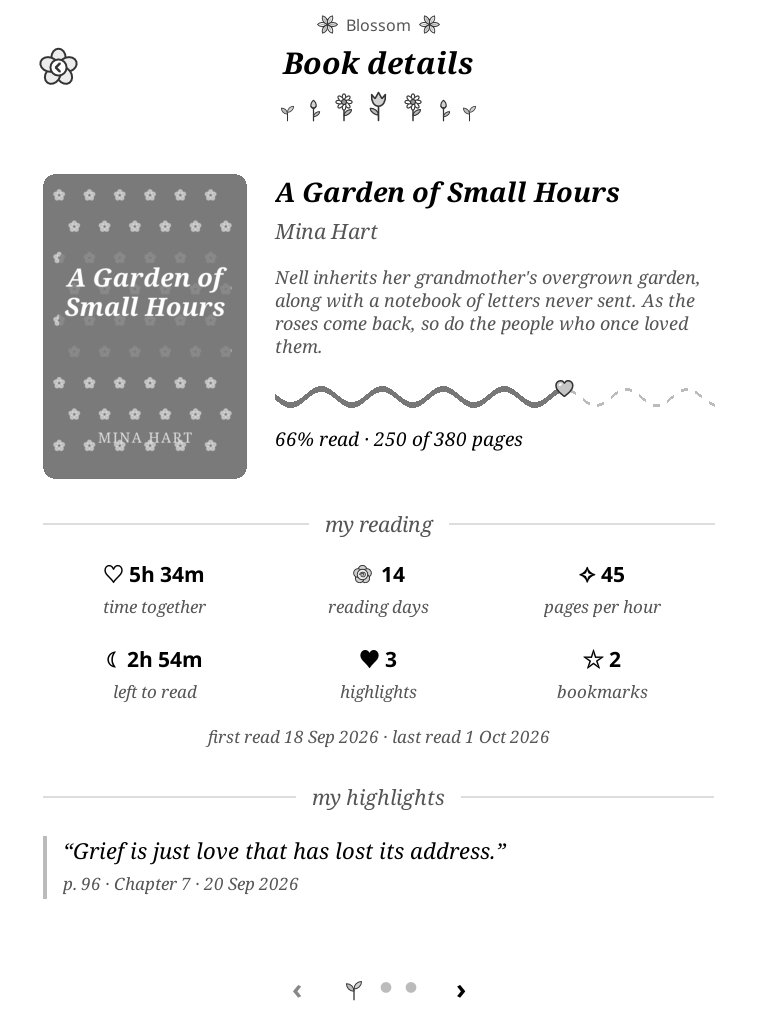
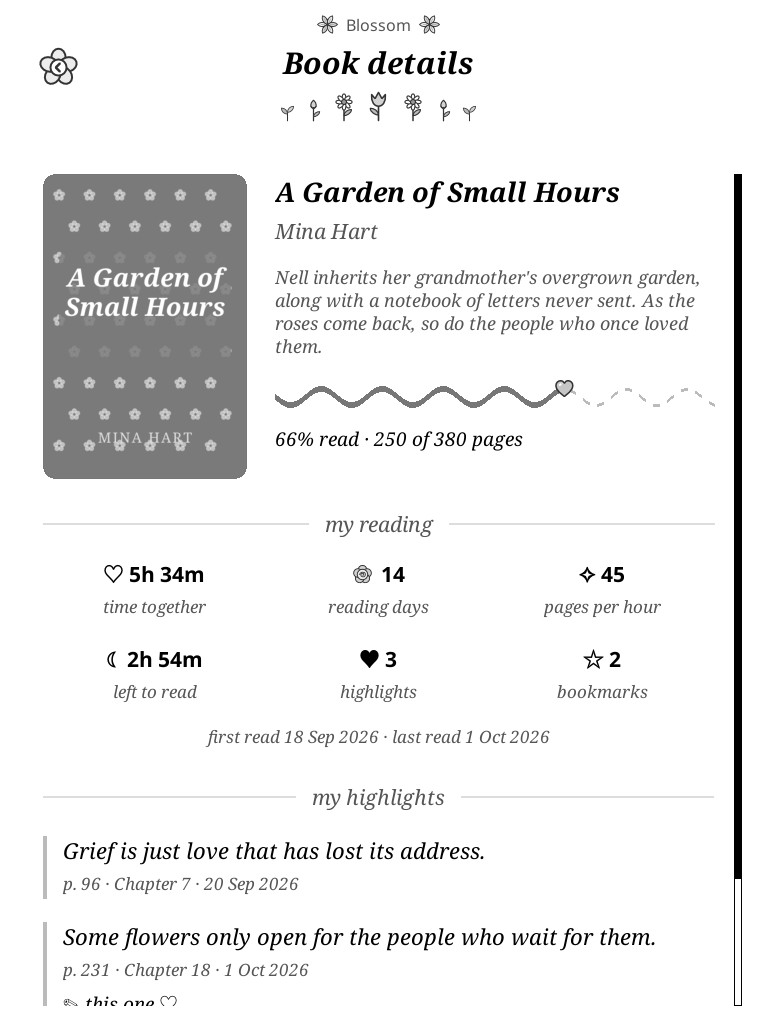
Book details scroll instead of overflowing; highlights shown exactly as in the book; week 'See more …'

Changed region(s): [[0.0303, 0.91, 0.8496, 1.0], [0.971, 0.1517, 1.0, 0.8796], [0.091, 0.819, 0.6675, 0.8493]]

diff --git a/README.md b/README.md
@@ -48,7 +48,7 @@ marks the current page.
 
 - Minutes read on each of the last 7 days, with a ♥ over your best day.
 - Your total for the week and your best day.
-- **Books that kept me company:** just the covers of what you read this week.
+- **Books that kept me company:** the covers of what you read this week, with **See more …** for the rest.
 
 <br clear="right">
 
@@ -99,7 +99,8 @@ Tap any book, anywhere, to open it:
 - **Top:** the cover, title, author, a short snippet of the book's description, a wavy progress
   line and "66% read · 250 of 380 pages".
 - **My reading:** time together, reading days, pages per hour, time left, highlights and bookmarks.
-- **My highlights:** your highlights from this book.
+- **My highlights:** your highlights from this book, shown exactly as in the book.
+- The page scrolls when it's taller than the screen or window. Swipe up or down on it.
 
 <br clear="right">
 
